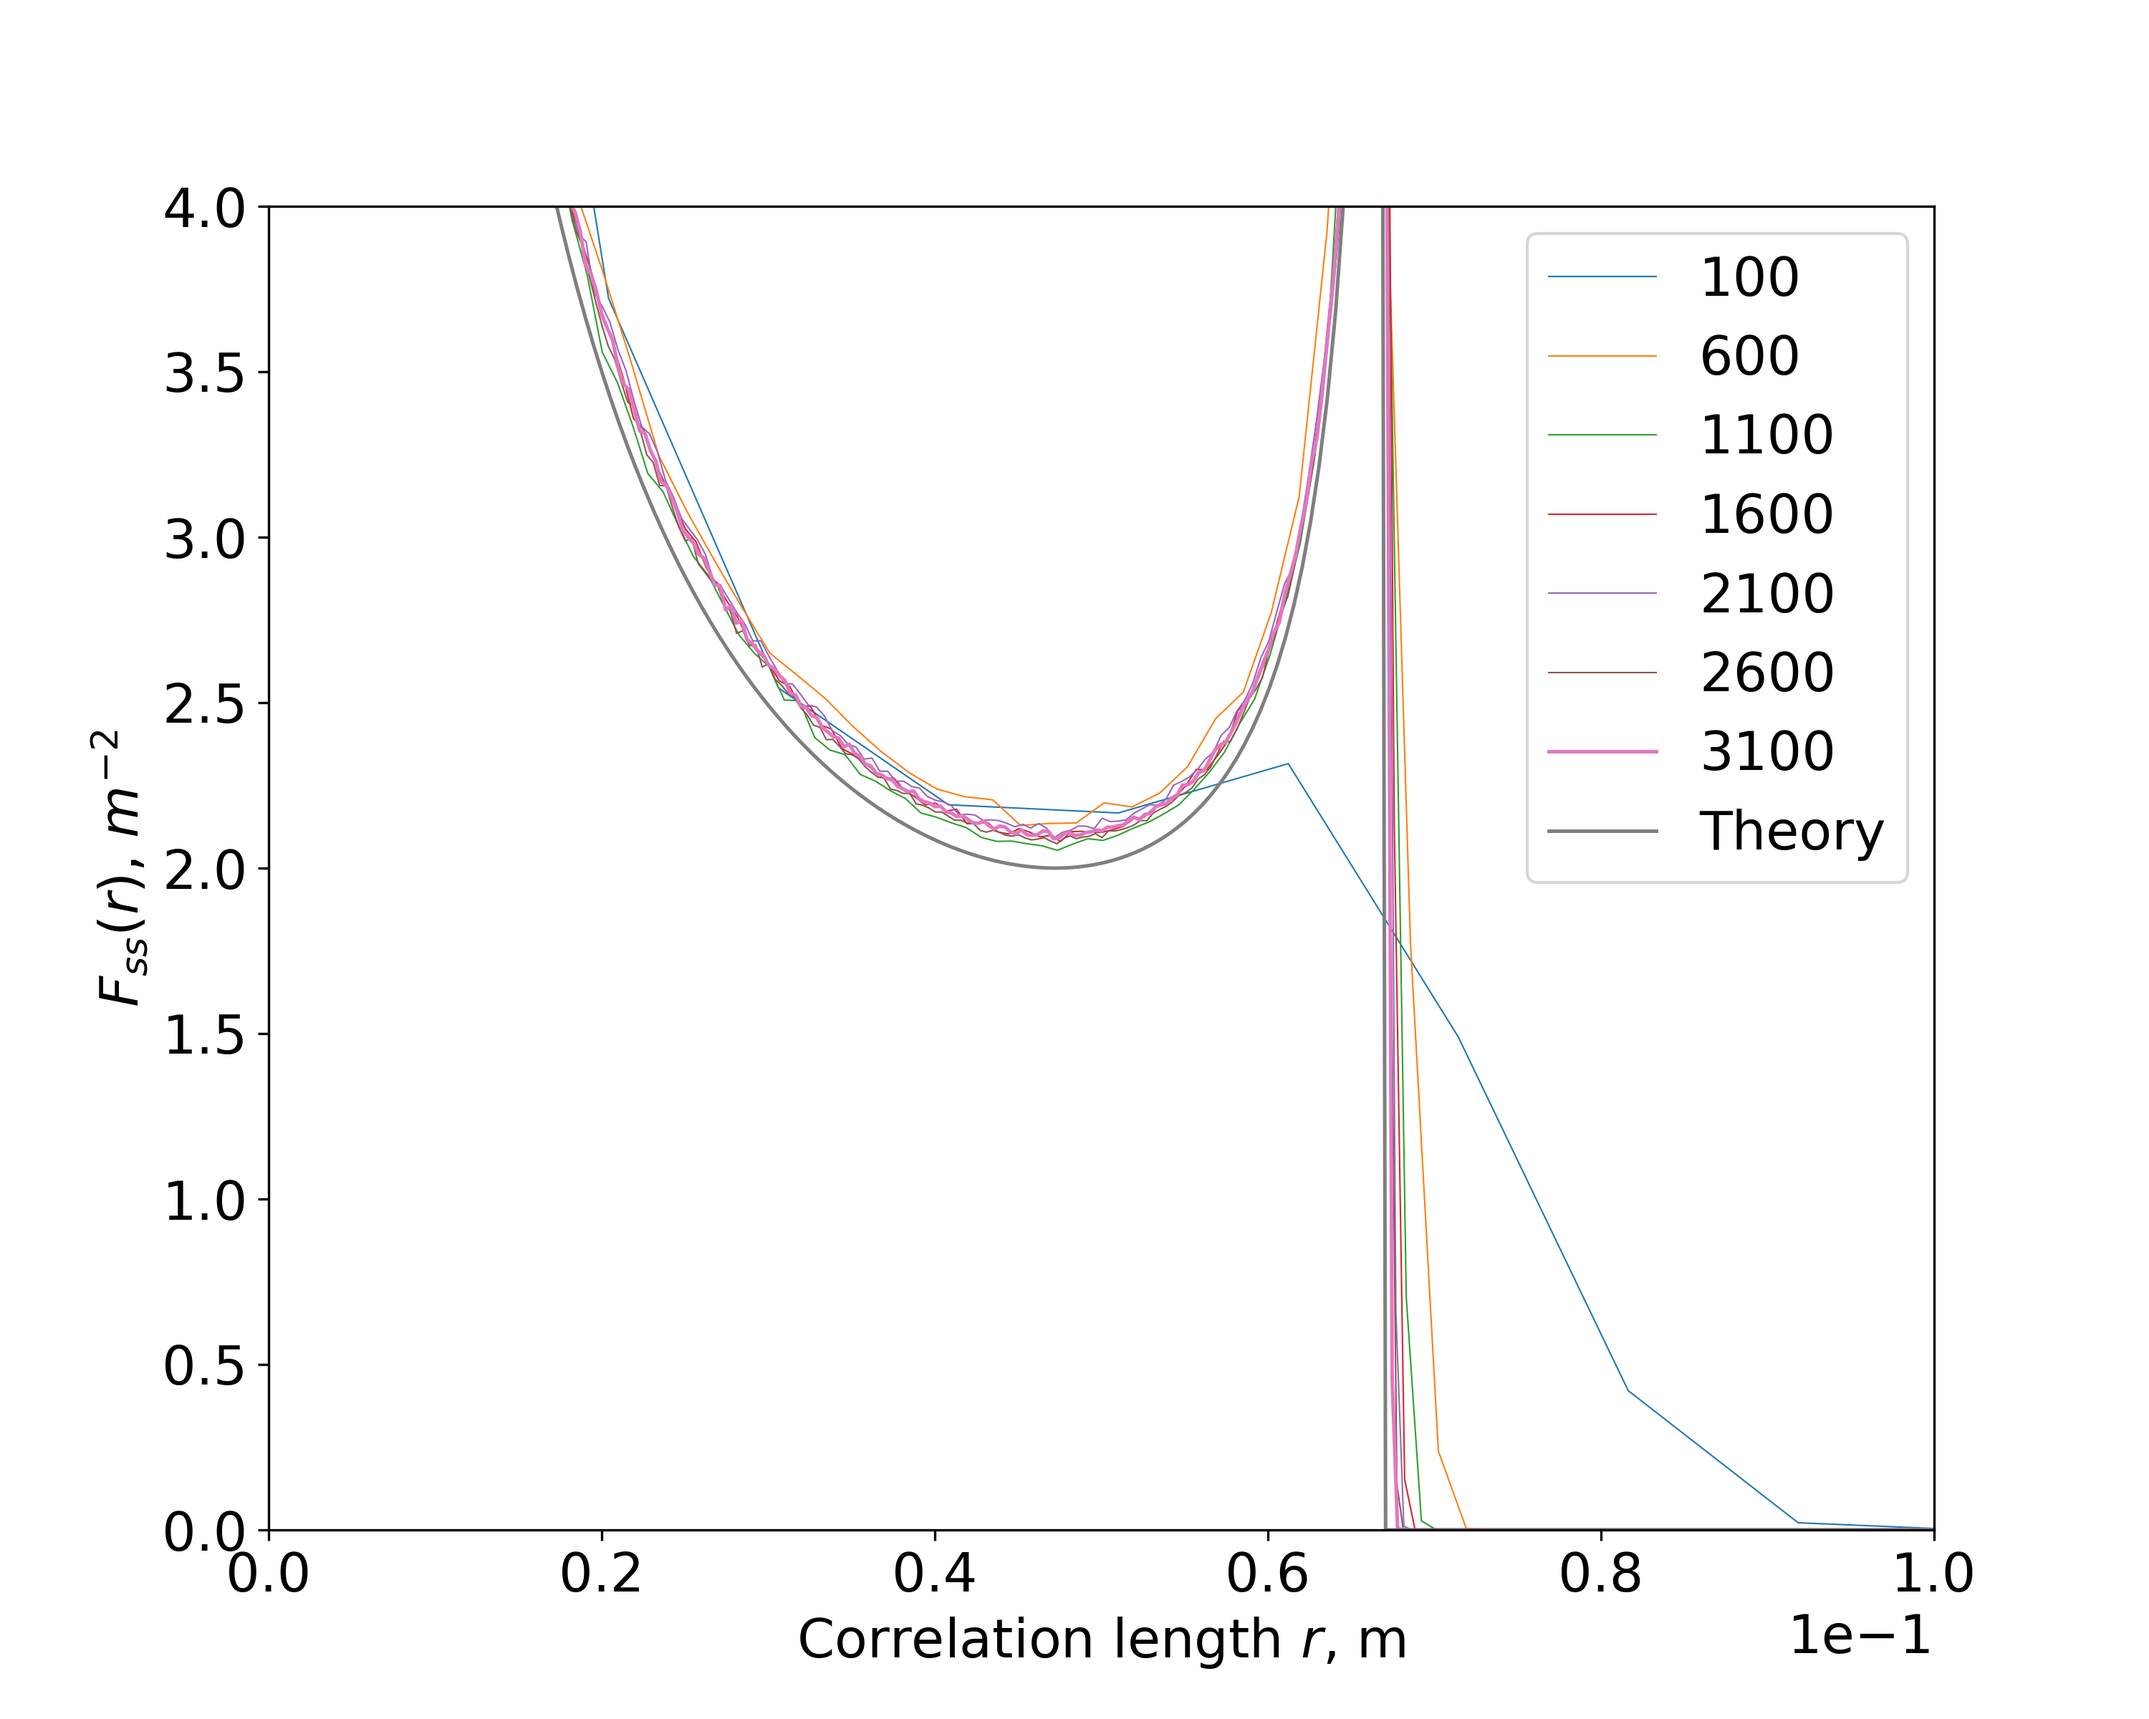
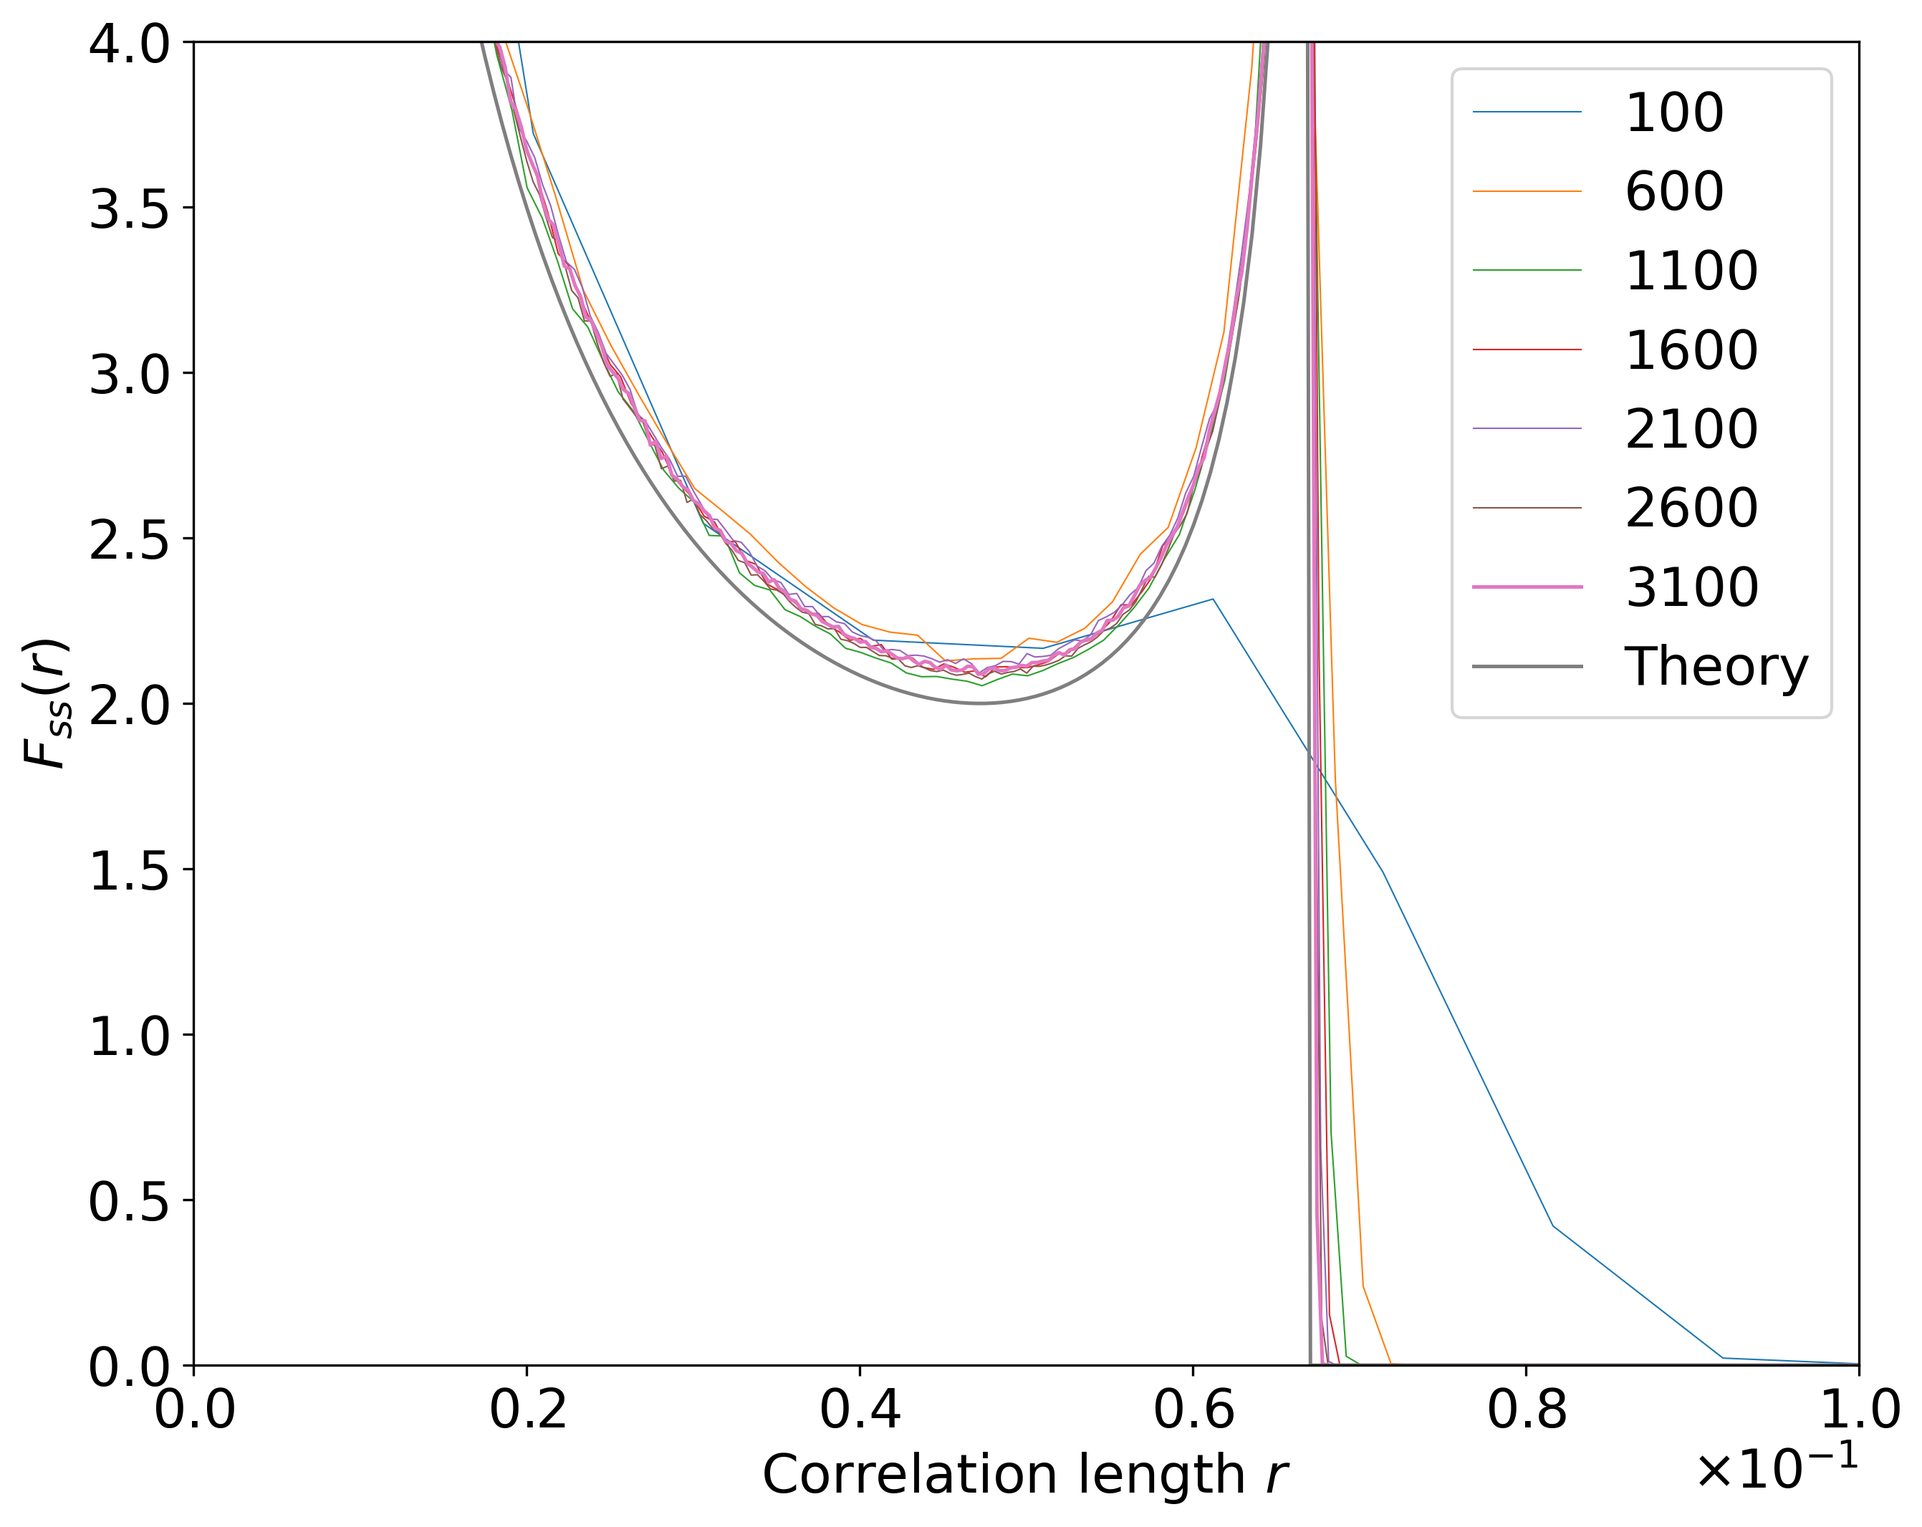
Upldate plots with disks

diff --git a/paper.tex b/paper.tex
@@ -748,7 +748,7 @@ with different resolution with a theory is shown on \cref{fig:fss-disk}.
     \label{fig:fss-disk-3x3}}
   \hfill
   \subfigure[$7\times 7$ kernel $H'$]{
-    \includegraphics[width=0.45\linewidth]{images/fss-disk-5x5.png}
+    \includegraphics[width=0.45\linewidth]{images/fss-disk-7x7.png}
     \label{fig:fss-disk-5x5}}
   \caption[]{Plot of surface-surface function for a disk with radius
     $R = 0.0334$. Resolution of the image varies from $100\times 100$ pixels to

diff --git a/scripts&data/plot-ss.py b/scripts&data/plot-ss.py
@@ -22,4 +22,4 @@ plt.ticklabel_format(axis = "x", scilimits = (0, 0), useMathText = True)
 plt.legend(legend + ['Theory'])
 plt.xlabel('Correlation length $r$')
 plt.ylabel('$F_{ss}(r)$')
-plt.savefig('../images/fss-disk-3x3.png')
+plt.savefig('../images/fss-disk-7x7.png', bbox_inches = 'tight')
